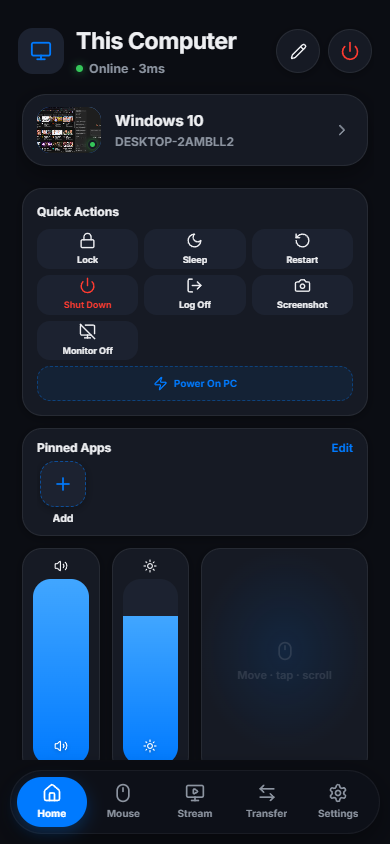
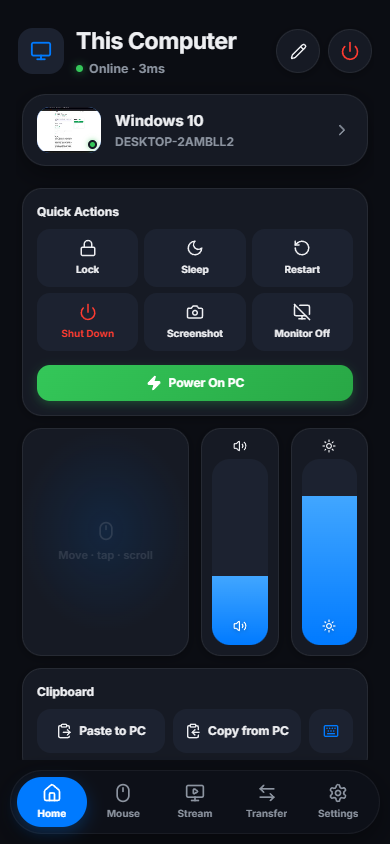
fix(home): portal sheets, green Power On, filling Quick Actions, media, default
- Portal all Home sheets (WoL, Customize Actions, Add Widget, App Picker) to
  <body>: they lived inside the transformed .content-stage, so position:fixed
  was clipped — cut off at the top and hidden behind the nav bar on iOS
- Fix Customize Actions not scrolling: .sheet-scroll-body children could shrink
  and a .set-group (overflow:hidden) clipped its rows; children now keep natural
  height so the list scrolls to the last action
- Power On PC is now a solid green button below the tiles (was a faint dashed row)
- Quick Actions tiles stretch to fill the widget with a column count chosen by
  action count (iOS Control-Center feel)
- Stop volume/brightness sliding in from below: widget-cell layout animation is
  enabled only while editing
- New default layout (v2) matching the showcase: Quick Actions, trackpad beside
  the two narrow sliders, full-width Clipboard
- Improve Media widget: mute + skip-back / play-pause toggle / skip-forward
- Refreshed Home light/dark screenshots

diff --git a/frontend/src/assets/main.css b/frontend/src/assets/main.css
@@ -2270,22 +2270,26 @@ input {
 
 .w-qa-grid {
   flex: 1;
+  min-height: 0;
   display: grid;
-  grid-template-columns: repeat(3, minmax(0, 1fr));
+  /* columns are set inline by the widget; rows stretch to fill the height so
+     the tiles tile the whole widget like the iOS Control Center */
+  grid-auto-rows: 1fr;
   gap: 6px;
 }
 
 .w-qa-btn {
   min-width: 0;
+  min-height: 0;
   display: flex;
   flex-direction: column;
   align-items: center;
   justify-content: center;
-  gap: 4px;
+  gap: 5px;
   border-radius: 13px;
   color: var(--ink);
   background: var(--chip);
-  font-size: 9px;
+  font-size: 10px;
   font-weight: 800;
   transition: transform 120ms ease;
 }
@@ -2305,16 +2309,26 @@ input {
   color: var(--red);
 }
 
-/* "Power On PC" teaser — a deliberate full-width row under the action tiles */
-.w-qa-btn.wide {
-  grid-column: 1 / -1;
-  flex-direction: row;
-  gap: 6px;
-  min-height: 30px;
-  font-size: 10px;
-  color: var(--blue);
-  background: rgba(0, 122, 255, 0.08);
-  border: 1px dashed rgba(0, 122, 255, 0.35);
+/* "Power On PC" teaser — solid green full-width button under the action tiles */
+.w-qa-power {
+  flex-shrink: 0;
+  margin-top: 6px;
+  min-height: 36px;
+  display: flex;
+  align-items: center;
+  justify-content: center;
+  gap: 7px;
+  border-radius: 13px;
+  font-size: 12px;
+  font-weight: 800;
+  color: #fff;
+  background: linear-gradient(135deg, #34c759, #28a745);
+  box-shadow: 0 3px 10px rgba(52, 199, 89, 0.28);
+  transition: transform 120ms ease;
+}
+
+.w-qa-power:active {
+  transform: scale(0.97);
 }
 
 /* iOS-style toggle used in the Quick Actions config sheet */
@@ -2617,17 +2631,22 @@ input {
   display: flex;
   align-items: center;
   justify-content: center;
-  gap: 16px;
+  gap: 12px;
 }
 
 .w-media-row button {
-  width: 40px;
-  height: 40px;
+  width: 42px;
+  height: 42px;
   border-radius: 999px;
   display: grid;
   place-items: center;
   color: var(--ink);
   background: var(--chip);
+  transition: transform 120ms ease;
+}
+
+.w-media-row button:active {
+  transform: scale(0.9);
 }
 
 .w-media-row button.primary {
@@ -2931,6 +2950,13 @@ input {
   display: flex;
   flex-direction: column;
   gap: 12px;
+}
+
+/* Children must keep their natural height; otherwise a tall child (e.g. a
+   `.set-group` with overflow:hidden) shrinks to fit and clips its rows,
+   leaving the list unscrollable. */
+.sheet-scroll-body > * {
+  flex-shrink: 0;
 }
 
 .sheet-scroll-body::-webkit-scrollbar {

diff --git a/frontend/src/features/dashboard/widgets/QuickActionsWidget.tsx b/frontend/src/features/dashboard/widgets/QuickActionsWidget.tsx
@@ -1,3 +1,4 @@
+import { Zap } from 'lucide-react';
 import { useOrbit } from '../../../state/OrbitContext';
 import { getQuickActionMeta, resolveQuickActions } from './quickActions';
 import type { WidgetInstance } from './types';
@@ -7,16 +8,27 @@ interface QuickActionsWidgetProps {
   onPowerOn: () => void;
 }
 
+/** Choose a column count that keeps the tiles roughly square-ish and fills the
+ * widget like the iOS Control Center. */
+function columnsFor(count: number): number {
+  if (count <= 1) return 1;
+  if (count <= 3) return count;
+  if (count === 4) return 2;
+  return 3;
+}
+
 /** User-configurable grid of one-tap system actions. Which actions show is
  * stored per-instance (config.actions) and edited via the gear badge in edit
- * mode. "Power On PC" renders as a full-width row — it opens the Wake-on-LAN
- * explainer instead of hitting the agent (a web app can't send WoL packets). */
+ * mode. Tiles stretch to fill the whole widget. "Power On PC" is a green
+ * teaser button below the grid — it opens the Wake-on-LAN explainer instead
+ * of hitting the agent (a web app can't send WoL packets). */
 export function QuickActionsWidget({ instance, onPowerOn }: QuickActionsWidgetProps) {
   const { sendEvent, postSystemAction } = useOrbit();
 
   const keys = resolveQuickActions(instance.config);
   const tiles = keys.filter((k) => k !== 'powerOn');
   const hasPowerOn = keys.includes('powerOn');
+  const cols = columnsFor(tiles.length);
 
   const run = (key: string) => {
     const meta = getQuickActionMeta(key);
@@ -30,7 +42,7 @@ export function QuickActionsWidget({ instance, onPowerOn }: QuickActionsWidgetPr
   return (
     <div className="w-flex-col">
       <span className="w-title">Quick Actions</span>
-      <div className="w-qa-grid">
+      <div className="w-qa-grid" style={{ gridTemplateColumns: `repeat(${cols}, minmax(0, 1fr))` }}>
         {tiles.map((key) => {
           const meta = getQuickActionMeta(key)!;
           const Icon = meta.icon;
@@ -41,21 +53,18 @@ export function QuickActionsWidget({ instance, onPowerOn }: QuickActionsWidgetPr
               className={`w-qa-btn ${meta.red ? 'red' : ''}`}
               onClick={() => run(key)}
             >
-              <Icon size={17} />
+              <Icon size={18} />
               <span>{meta.label}</span>
             </button>
           );
         })}
-        {hasPowerOn && (
-          <button type="button" className="w-qa-btn wide" onClick={onPowerOn}>
-            {(() => {
-              const Icon = getQuickActionMeta('powerOn')!.icon;
-              return <Icon size={15} />;
-            })()}
-            <span>Power On PC</span>
-          </button>
-        )}
       </div>
+      {hasPowerOn && (
+        <button type="button" className="w-qa-power" onClick={onPowerOn}>
+          <Zap size={16} fill="currentColor" />
+          <span>Power On PC</span>
+        </button>
+      )}
     </div>
   );
 }

diff --git a/frontend/src/features/dashboard/widgets/MediaControlsWidget.tsx b/frontend/src/features/dashboard/widgets/MediaControlsWidget.tsx
@@ -1,22 +1,42 @@
-import { Play, RotateCcw, ChevronRight } from 'lucide-react';
+import { useState } from 'react';
+import { SkipBack, SkipForward, Play, Pause, Volume2, VolumeX } from 'lucide-react';
 import { useOrbit } from '../../../state/OrbitContext';
 
+/** Media transport for whatever is playing on the PC. Play/pause and mute are
+ * best-effort toggles (the agent exposes the media/volume keys, not the real
+ * playback state), so the icon reflects the last tap. */
 export function MediaControlsWidget() {
-  const { sendEvent } = useOrbit();
+  const { sendEvent, postSystemAction } = useOrbit();
+  const [playing, setPlaying] = useState(false);
+  const [muted, setMuted] = useState(false);
+
   const media = (key: string) => sendEvent({ event: 'keyboard_input', key, type: 'press' });
+
+  const togglePlay = () => {
+    media('media_play_pause');
+    setPlaying((p) => !p);
+  };
+
+  const toggleMute = () => {
+    postSystemAction('/api/v1/system/volume/mute');
+    setMuted((m) => !m);
+  };
 
   return (
     <div className="w-flex-col">
       <span className="w-title">Media</span>
       <div className="w-media-row">
-        <button type="button" onClick={() => media('media_previous')} aria-label="Previous">
-          <RotateCcw size={18} />
+        <button type="button" onClick={toggleMute} aria-label={muted ? 'Unmute' : 'Mute'}>
+          {muted ? <VolumeX size={17} className="text-[#ff3b30]" /> : <Volume2 size={17} />}
         </button>
-        <button type="button" className="primary" onClick={() => media('media_play_pause')} aria-label="Play or pause">
-          <Play size={20} fill="currentColor" />
+        <button type="button" onClick={() => media('media_previous')} aria-label="Previous">
+          <SkipBack size={18} fill="currentColor" />
+        </button>
+        <button type="button" className="primary" onClick={togglePlay} aria-label={playing ? 'Pause' : 'Play'}>
+          {playing ? <Pause size={20} fill="currentColor" /> : <Play size={20} fill="currentColor" />}
         </button>
         <button type="button" onClick={() => media('media_next')} aria-label="Next">
-          <ChevronRight size={20} />
+          <SkipForward size={18} fill="currentColor" />
         </button>
       </div>
     </div>

diff --git a/frontend/src/components/Portal.tsx b/frontend/src/components/Portal.tsx
@@ -1,0 +1,11 @@
+import { type ReactNode } from 'react';
+import { createPortal } from 'react-dom';
+
+/** Renders children into document.body. Home sheets live inside the animated
+ * `.content-stage`, whose framer-motion transform makes `position: fixed`
+ * resolve against that element instead of the viewport — so a fixed overlay
+ * gets clipped by the stage (cut off at the top, hidden behind the nav bar).
+ * Portaling to <body> escapes the transformed ancestor. */
+export function Portal({ children }: { children: ReactNode }) {
+  return createPortal(children, document.body);
+}

diff --git a/frontend/src/features/dashboard/widgets/catalog.ts b/frontend/src/features/dashboard/widgets/catalog.ts
@@ -120,12 +120,13 @@ export function getWidgetMeta(type: WidgetInstance['type']): WidgetMeta | undefi
   return WIDGET_CATALOG.find((w) => w.type === type);
 }
 
-/** First-run layout: Quick Actions, pinned apps, then the two narrow sliders
- * with a half-tall trackpad filling the row beside them (packs cleanly, no gaps). */
+/** First-run layout: Quick Actions on top, then a half-tall trackpad beside the
+ * two narrow sliders, and a full-width Clipboard row — matches the showcase
+ * design and packs cleanly with no gaps. */
 export const DEFAULT_LAYOUT: WidgetInstance[] = [
   { id: 'default-quick-actions', type: 'quickActions', size: '2x2' },
-  { id: 'default-pinned-apps', type: 'pinnedApps', size: '2x1' },
+  { id: 'default-trackpad', type: 'trackpad', size: '1x2' },
   { id: 'default-volume', type: 'volume', size: 'slim' },
   { id: 'default-brightness', type: 'brightness', size: 'slim' },
-  { id: 'default-trackpad', type: 'trackpad', size: '1x2' },
+  { id: 'default-clipboard', type: 'clipboard', size: '2x1' },
 ];

diff --git a/frontend/src/features/dashboard/widgets/WidgetPreview.tsx b/frontend/src/features/dashboard/widgets/WidgetPreview.tsx
@@ -10,7 +10,8 @@ import {
   ClipboardPaste,
   ClipboardCopy,
   Play,
-  ChevronRight,
+  SkipBack,
+  SkipForward,
   Wand2,
   AppWindow,
   MonitorPlay,
@@ -89,11 +90,11 @@ export function WidgetPreview({ type }: { type: WidgetType }) {
     case 'mediaControls':
       return (
         <div className="wp-media">
-          <RotateCcw size={12} />
+          <SkipBack size={12} fill="currentColor" />
           <span className="wp-media-play">
             <Play size={11} fill="currentColor" />
           </span>
-          <ChevronRight size={12} />
+          <SkipForward size={12} fill="currentColor" />
         </div>
       );
     case 'macroLauncher':

diff --git a/frontend/src/features/dashboard/widgets/AddWidgetSheet.tsx b/frontend/src/features/dashboard/widgets/AddWidgetSheet.tsx
@@ -1,6 +1,7 @@
 import { useState } from 'react';
 import { motion } from 'framer-motion';
 import { X, ChevronRight, Wand2 } from 'lucide-react';
+import { Portal } from '../../../components/Portal';
 import { useOrbit } from '../../../state/OrbitContext';
 import { AppPicker } from '../AppPicker';
 import { WidgetPreview } from './WidgetPreview';
@@ -43,7 +44,7 @@ export function AddWidgetSheet({ existingTypes, onAdd, onClose }: AddWidgetSheet
   };
 
   return (
-    <>
+    <Portal>
       <motion.div
         className="fixed inset-0 z-[65] bg-slate-950/40 backdrop-blur-md flex items-end justify-center"
         initial={{ opacity: 0 }}
@@ -144,6 +145,6 @@ export function AddWidgetSheet({ existingTypes, onAdd, onClose }: AddWidgetSheet
           onClose={() => setPickingApp(false)}
         />
       )}
-    </>
+    </Portal>
   );
 }

diff --git a/frontend/src/features/dashboard/AppPicker.tsx b/frontend/src/features/dashboard/AppPicker.tsx
@@ -1,5 +1,6 @@
 import { motion } from 'framer-motion';
 import { AppWindow, Search, X } from 'lucide-react';
+import { Portal } from '../../components/Portal';
 import { Skeleton } from '../../components/Skeleton';
 import { useApps } from '../pc/useApps';
 import type { PinnedApp } from '../../types';
@@ -18,6 +19,7 @@ export function AppPicker({ onPick, onClose, launchOnPick = true }: AppPickerPro
   const { filtered, query, setQuery, launch, isLoading } = useApps();
 
   return (
+    <Portal>
     <motion.div
       className="fixed inset-0 z-[70] bg-slate-950/40 backdrop-blur-md flex items-end justify-center"
       initial={{ opacity: 0 }}
@@ -86,5 +88,6 @@ export function AppPicker({ onPick, onClose, launchOnPick = true }: AppPickerPro
         </div>
       </motion.div>
     </motion.div>
+    </Portal>
   );
 }

diff --git a/frontend/src/features/dashboard/WakeOnLanSheet.tsx b/frontend/src/features/dashboard/WakeOnLanSheet.tsx
@@ -1,5 +1,6 @@
 import { motion } from 'framer-motion';
 import { Coffee, Zap, X } from 'lucide-react';
+import { Portal } from '../../components/Portal';
 
 const BMC_URL = 'https://buymeacoffee.com/yovrah';
 
@@ -12,6 +13,7 @@ interface WakeOnLanSheetProps {
  * support-the-project pitch. */
 export function WakeOnLanSheet({ onClose }: WakeOnLanSheetProps) {
   return (
+    <Portal>
     <motion.div
       className="fixed inset-0 z-[70] bg-slate-950/40 backdrop-blur-md flex items-end justify-center"
       initial={{ opacity: 0 }}
@@ -71,5 +73,6 @@ export function WakeOnLanSheet({ onClose }: WakeOnLanSheetProps) {
         </button>
       </motion.div>
     </motion.div>
+    </Portal>
   );
 }

diff --git a/frontend/src/features/dashboard/widgets/HomeGrid.tsx b/frontend/src/features/dashboard/widgets/HomeGrid.tsx
@@ -79,7 +79,8 @@ export function HomeGrid({
         return (
           <motion.div
             key={w.id}
-            layout
+            layout={editing}
+            initial={false}
             data-widget-id={w.id}
             className={`widget-cell ${editing ? 'editing' : ''} ${isDragging ? 'dragging' : ''}`}
             style={{

diff --git a/frontend/src/features/dashboard/widgets/QuickActionsConfigSheet.tsx b/frontend/src/features/dashboard/widgets/QuickActionsConfigSheet.tsx
@@ -1,5 +1,6 @@
 import { motion } from 'framer-motion';
 import { X } from 'lucide-react';
+import { Portal } from '../../../components/Portal';
 import { QUICK_ACTION_CATALOG, resolveQuickActions } from './quickActions';
 import type { QuickActionKey } from './quickActions';
 import type { WidgetInstance } from './types';
@@ -25,6 +26,7 @@ export function QuickActionsConfigSheet({ instance, onChange, onClose }: QuickAc
   };
 
   return (
+    <Portal>
     <motion.div
       className="fixed inset-0 z-[70] bg-slate-950/40 backdrop-blur-md flex items-end justify-center"
       initial={{ opacity: 0 }}
@@ -77,5 +79,6 @@ export function QuickActionsConfigSheet({ instance, onChange, onClose }: QuickAc
         </div>
       </motion.div>
     </motion.div>
+    </Portal>
   );
 }

diff --git a/frontend/src/features/dashboard/widgets/quickActions.ts b/frontend/src/features/dashboard/widgets/quickActions.ts
@@ -44,8 +44,8 @@ export const DEFAULT_QUICK_ACTIONS: QuickActionKey[] = [
   'sleep',
   'restart',
   'shutdown',
-  'logoff',
   'screenshot',
+  'monitorOff',
   'powerOn',
 ];
 